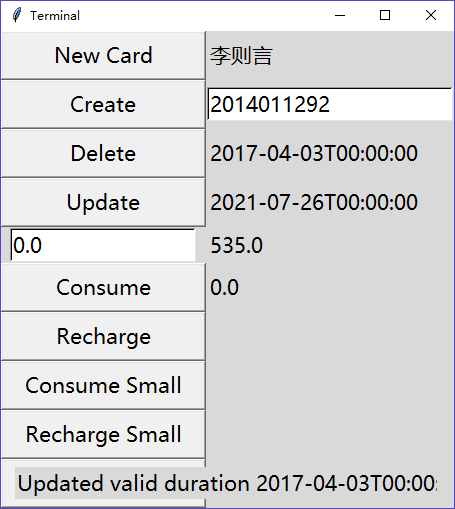
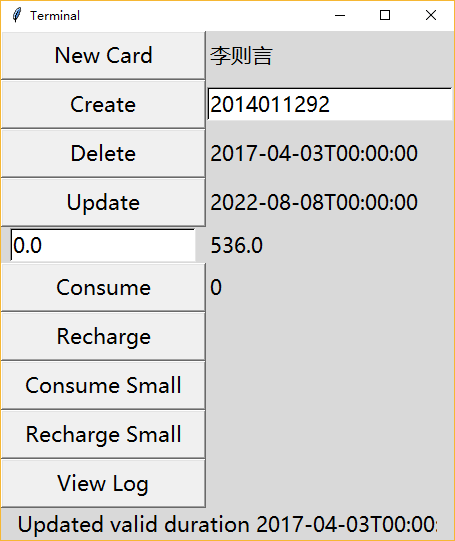
final report

diff --git a/final.md b/final.md
@@ -12,7 +12,19 @@
 
 ## 二、问题分析
 
-	校园一卡通系统的构建大致可以分为三个部分，读取卡片信息的读卡器、负责与用户交互的终端设备和负责存储信息和进行各种查询的网络后台。考虑到校园卡存在丢失等情况，其中的信息存在被破解的可能，出于安全考虑，此系统中网络后台负责存储全部的用户信息。而另一方面，为了方便起见，此系统允许用户将少量的钱转储到在卡片上存储的“小钱包”上，这个小钱包是不需要终端设备联网的。同时，在终端设备临时断网的时候，我们也允许门禁系统放行最近通过过的少量用户。
+	校园一卡通系统的基本功能参考清华校园一卡通系统即可：
+
+		创建新卡的时候在数据库中将卡的uid和学生绑定起来即可，删除旧卡将卡的uid和学生解绑即可。这样卡上的余额和卡本身也是分离的，不会因为旧卡丢失或者损坏就损失其中的余额。
+
+		更新有效期只要通过卡的uid识别学生，然后将为对应的学生注册有效期即可，和卡是无关的。
+
+		门禁系统只需要在后台维护允许通过的用户列表，门禁机只需要用卡的uid去向后台查询是否许可即可。
+
+		闪付储值与消费同样只是访问和修改后台的数据库，不在卡上保存信息。
+
+	显而易见，读卡器和后台数据库是这个系统不可或缺的部分。如果不使用统一的中央数据库而将各种信息在卡上保存，一方面很难处理丢失卡，损坏卡等问题，另一方面无法进行在线充值，在线挂失这样方便实用的操作。由于读卡器是嵌入式设备，进行网络访问，用户交互等比较难以实现，所以我们添加了一个桌面终端，主要负责连接用户，读卡器和后台。我们可以将桌面终端和读卡器类比为清华校园中的圈存机等设备。
+
+	因此校园一卡通系统的构建大致可以分为三个部分，读取卡片信息的读卡器、负责与用户交互的终端设备和负责存储信息和进行各种查询的网络后台。考虑到校园卡存在丢失等情况，其中的信息存在被破解的可能，出于安全考虑，此系统中网络后台负责存储全部的用户信息。而另一方面，为了方便起见，此系统允许用户将少量的钱转储到在卡片上存储的“小钱包”上，这个小钱包是不需要终端设备联网的。同时，在终端设备临时断网的时候，我们也允许门禁系统放行最近通过过的少量用户。
 
 	我们从以下五个方面分析这个系统的安全性问题：
 
@@ -118,8 +130,8 @@
 
 在我们的系统中，临时断网场景的下的门禁系统只适用于宿舍楼之类安全级别不高的场所，而实验室，机房等高安全级别的场所不应该开启此功能。如果开启此功能，在登录之后如果向后台查询门禁信息失败，会从本地数据库中查询用户记录。本地数据库缓存了最近若干天的最多若干个被允许通过门禁的用户。如此，有的时候网络不稳定，也不会影响学生的出入。这种设计的安全性有以下几方面保证：
 
-   	1. 首先，能够被缓存到本地数据库中的用户都是最近几天成功联网查询门禁通过的用户。存在的唯一漏洞仅为校园卡刚刚失效的用户还能够进入门禁，但是这一点对于类似宿舍楼这样的场景来说无伤大雅。
-  2. 在终端中存储的本地数据库是使用AES加密保存的，即便盗取了刷卡器，也需要解密本地数据库的加密（不可行），或者对终端程序逆向工程。
+       	1. 首先，能够被缓存到本地数据库中的用户都是最近几天成功联网查询门禁通过的用户。存在的唯一漏洞仅为校园卡刚刚失效的用户还能够进入门禁，但是这一点对于类似宿舍楼这样的场景来说无伤大雅。
+     	2. 在终端中存储的本地数据库是使用AES加密保存的，即便盗取了刷卡器，也需要解密本地数据库的加密（不可行），或者对终端程序逆向工程。
 
 
 
@@ -151,6 +163,8 @@
 
 ### 后台的部署
 
+我们后台的代码部署在了一台腾讯云的服务器上， 使用Apache2.4,配置了域名解析和SSL，只支持https访问。同时为此服务器配置了防火墙规则，大大提高了安全性。此网站一段时间内都可以访问，直接在浏览器中访问还可以通过前端界面管理数据库。
+
 - 服务器版本： Apache/2.4.18 (Ubuntu)
 - 服务器地址： card.lizeyan.me
 - 防火墙设置： 
@@ -159,9 +173,9 @@
 
 ### 终端的打包与运行
 
-使用pyinstaller打包为单个文件，可从 [terminal.exe for win32](https://download.lizeyan.me/programs/Card-terminal/terminal.exe)下载
+python本身的运行是解释性的，源码会暴露出来。所以我们使用pyinstaller将桌面终端打包为单个二进制文件，可从 [terminal.exe for win32](https://download.lizeyan.me/programs/Card-terminal/terminal.exe)下载
 
-直接双击运行即可
+直接双击运行即可（需要电脑上已连接一个读卡器到某一个串口设备）
 
 ### 终端运行测试
 
@@ -189,6 +203,8 @@
 
 ![delete](img/delete.png)
 
+与此同时卡上的密钥将被置为默认密钥，小钱包将被清空。
+
 #### 更新有效期
 
 目前更新有效期将直接将卡的有效期增加18周,点击`Update`即可更新有效期
@@ -201,6 +217,8 @@
 
 ![after_update](img/after_update.png)
 
+
+
 #### 门禁查询（在线与离线）
 
 如果终端可以连接到后台，那么将卡放到读卡器上的时候会向后台请求查询，成功会亮绿灯，失败会亮红灯。成功的时候会将用户信息加入到本地缓存中，本地缓存有最大时间和最大用户数的限制。
@@ -211,9 +229,41 @@
 
 充值与消费需要和后台交互，由后台控制金额的检查。点击`Consume`,`Recharge`将按照金额输入框中的进行充值和消费。成功会更新余额，失败则不会有任何变化
 
+消费之前：
+
+![before](img/after_update.png)
+
+消费了123元之后：
+
+![after](img/consume.png)
+
+充值了1234元之后：
+
+![recharge](img/recharge.png)
+
 #### 小钱包充值与消费
+
+小钱包充值之前：
+
+![before](img/recharge.png)
+
+小钱包充值之后：
+
+![after](img/small_recharge.png)
+
+小钱包消费之后：
+
+![after](img/consume_small.png)
 
 ## 五、分析与讨论
 
+我们再次讨论这个系统的安全性和便利性的问题。
 
+读卡器和桌面终端在实际的使用中是封装为类似清华校园圈存机那样的设备使用的，一般人如果想要和其交互只能通过暴露出来的有限的按钮和屏幕，不可能实施更多的攻击。如果想要进一步侵入，要么只能破坏设备外壳，要么只能篡改后台发往终端的数据。首先后者是不可行的，因为我们只通过SSL加密过的https协议传输数据。而前者一方面实现难度较大，容易引起注意，另一方面即使破坏了，也还是需要逆向工程以及解密的。
+
+后台由于使用了成熟的http服务器和应用框架，对于一般的目录遍历，SQL注入，跨站脚本攻击等常见的web攻击方式都有很好的防护能力。
+
+而卡上信息使用密钥保护，本身就是不可破解的，即使有人拿到卡，不知道密钥也无法读写。即便恰好破解了，我们卡上的小钱包信息也是AES加密保存的，还需要破解一个长为32的完全随机的密钥，基本不可行。
+
+对于便利性：由于我们本地有小钱包系统，所以在饮水机，淋浴间等地方部署水卡澡卡等的刷卡器的时候只需要可以省去网络设备的成本。门禁系统我们将数据放在后台，这样可以很方便地通过修改后台数据库配置不同地方的门禁系统（比如为宿舍楼，实验室等），而不需要去一个个修改刷卡机内的数据。同理，由于绝大部分数据都在后台，我们可以很方便地实现在线充值，在线挂失等实用的功能。
 

diff --git a/README.md b/README.md
@@ -1,5 +1,6 @@
 # Card
-Card operations by Ardunio uno
+
+完整的校园一卡通系统
 
 ## Configure
 
@@ -11,3 +12,19 @@ git submoudle update
 ```
 
 2 Copy files in `./rfid/src` to the project folder
+
+## 组件说明
+
+| 文件          | 说明     |
+| ----------- | ------ |
+| CardBackend | 系统后台源码 |
+| card        | 读卡器源码  |
+| Terminal    | 桌面终端源码 |
+| report.md   | 报告     |
+| pre.pptx    | 报告ppt  |
+
+## Release
+
+后台系统部署于https://card.lizeyan.me
+
+预编译的桌面终端源码下载地址(for win32)：https://download.lizeyan.me/programs/Card-terminal/terminal.exe
